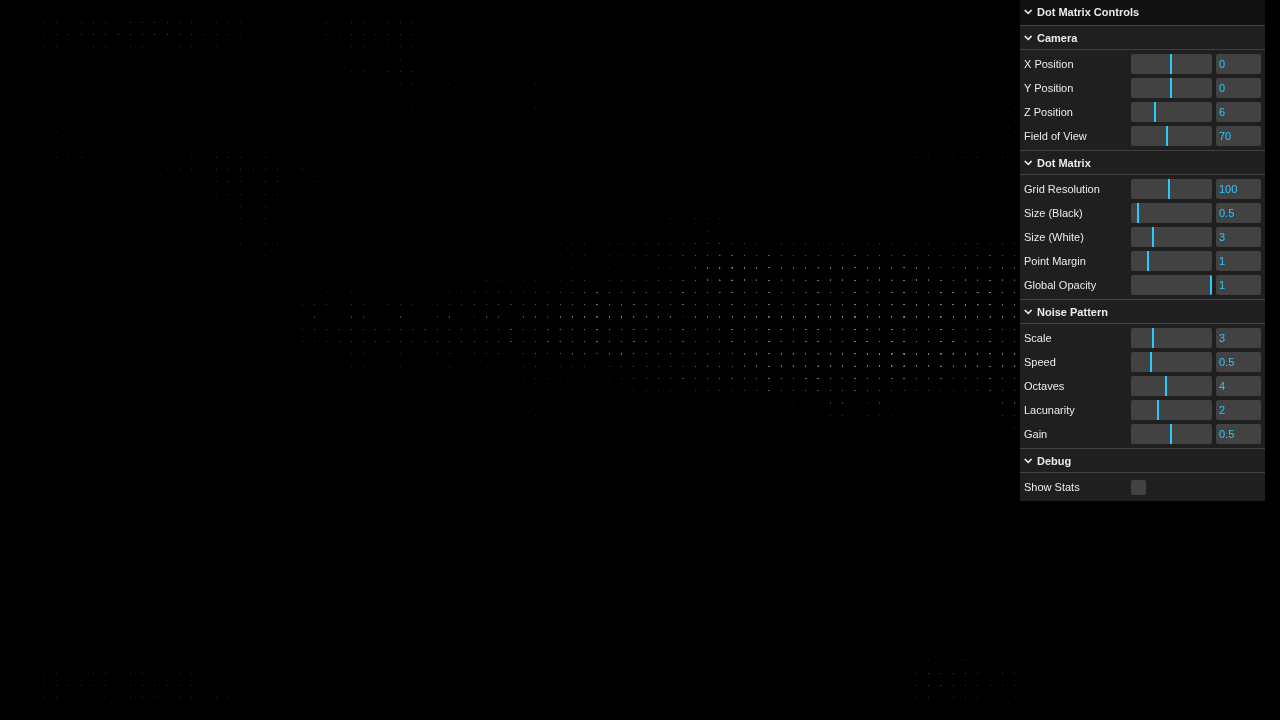
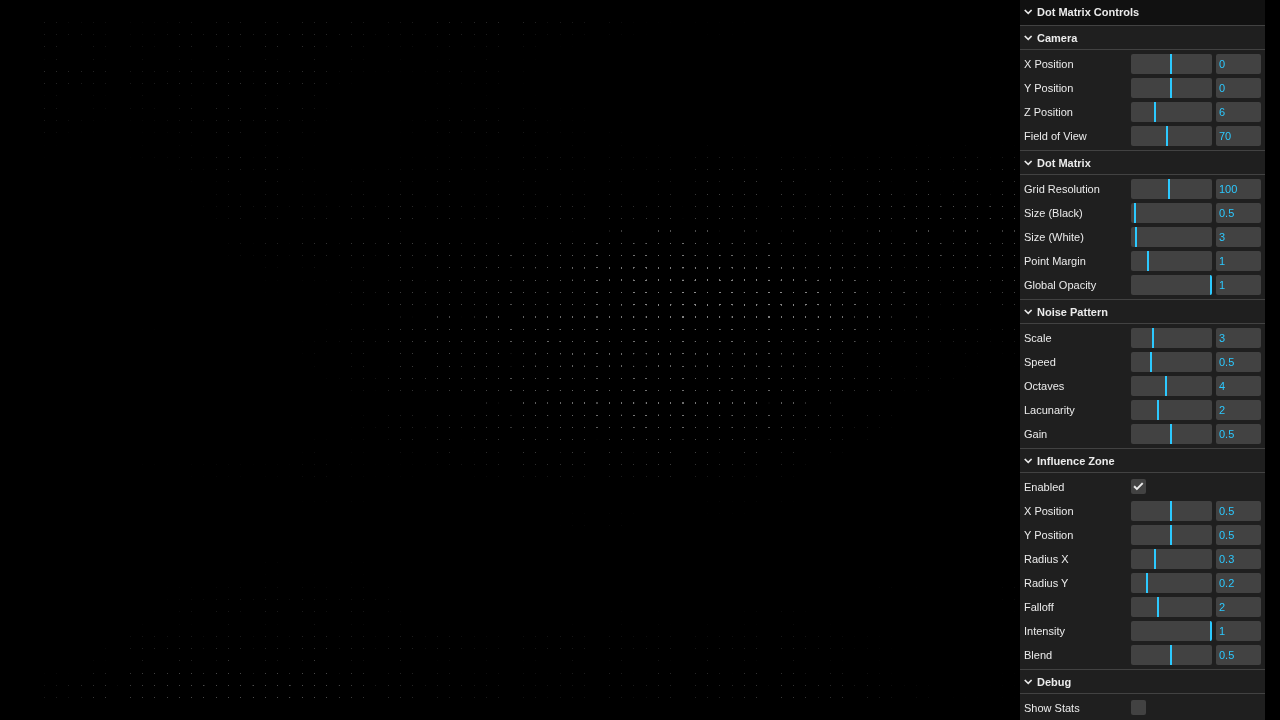
influence zone added

Changed region(s): [[0.7812, 0.6111, 1.0, 1.0]]

diff --git a/dotmatrix.js b/dotmatrix.js
@@ -27,6 +27,16 @@ const params = {
   noiseLacunarity: 2.0, // Frequency multiplier per octave
   noiseGain: 0.5,      // Amplitude multiplier per octave
   
+  // Influence zone controls
+  influenceEnabled: true,
+  influenceX: 0.5,     // X position (0-1, normalized)
+  influenceY: 0.5,     // Y position (0-1, normalized)
+  influenceRadiusX: 0.3, // Ellipse radius X (0-1, normalized)
+  influenceRadiusY: 0.2, // Ellipse radius Y (0-1, normalized)
+  influenceFalloff: 2.0, // Falloff power (1=linear, 2=quadratic, etc)
+  influenceIntensity: 1.0, // Intensity/value of influence (0=black, 1=white)
+  influenceBlend: 0.5,  // Blend factor with noise (0=only noise, 1=only influence)
+  
   // Debug
   showStats: false
 };
@@ -97,51 +107,77 @@ camera = new THREE.PerspectiveCamera(params.cameraFOV, window.innerWidth / windo
 camera.position.set(params.cameraOffsetX, params.cameraOffsetY, params.cameraOffsetZ);
 camera.lookAt(0, 0, 0);
 
-// Simple 2D noise function
-function noise2D(x, y) {
+// Simple 3D noise function for Z-axis movement
+function noise3D(x, y, z) {
   // Simple pseudo-random based on sin
-  return (Math.sin(x * 12.9898 + y * 78.233) * 43758.5453) % 1.0;
+  return (Math.sin(x * 12.9898 + y * 78.233 + z * 43.532) * 43758.5453) % 1.0;
 }
 
-// Smooth noise interpolation
-function smoothNoise2D(x, y) {
+// Smooth noise interpolation in 3D
+function smoothNoise3D(x, y, z) {
   const intX = Math.floor(x);
   const intY = Math.floor(y);
+  const intZ = Math.floor(z);
   const fracX = x - intX;
   const fracY = y - intY;
+  const fracZ = z - intZ;
   
-  // Get corner values
-  const a = noise2D(intX, intY);
-  const b = noise2D(intX + 1, intY);
-  const c = noise2D(intX, intY + 1);
-  const d = noise2D(intX + 1, intY + 1);
+  // Get corner values (8 corners of a cube)
+  const a000 = noise3D(intX, intY, intZ);
+  const a100 = noise3D(intX + 1, intY, intZ);
+  const a010 = noise3D(intX, intY + 1, intZ);
+  const a110 = noise3D(intX + 1, intY + 1, intZ);
+  const a001 = noise3D(intX, intY, intZ + 1);
+  const a101 = noise3D(intX + 1, intY, intZ + 1);
+  const a011 = noise3D(intX, intY + 1, intZ + 1);
+  const a111 = noise3D(intX + 1, intY + 1, intZ + 1);
   
   // Smooth interpolation
   const fx = fracX * fracX * (3 - 2 * fracX);
   const fy = fracY * fracY * (3 - 2 * fracY);
+  const fz = fracZ * fracZ * (3 - 2 * fracZ);
   
-  // Bilinear interpolation
-  const i1 = a * (1 - fx) + b * fx;
-  const i2 = c * (1 - fx) + d * fx;
+  // Trilinear interpolation
+  const i00 = a000 * (1 - fx) + a100 * fx;
+  const i10 = a010 * (1 - fx) + a110 * fx;
+  const i01 = a001 * (1 - fx) + a101 * fx;
+  const i11 = a011 * (1 - fx) + a111 * fx;
   
-  return i1 * (1 - fy) + i2 * fy;
+  const i0 = i00 * (1 - fy) + i10 * fy;
+  const i1 = i01 * (1 - fy) + i11 * fy;
+  
+  return i0 * (1 - fz) + i1 * fz;
 }
 
 // Fractal noise with octaves
-function fractalNoise2D(x, y, octaves, lacunarity, gain) {
+function fractalNoise3D(x, y, z, octaves, lacunarity, gain) {
   let value = 0;
   let amplitude = 1;
   let frequency = 1;
   let maxValue = 0;
   
   for (let i = 0; i < octaves; i++) {
-    value += smoothNoise2D(x * frequency, y * frequency) * amplitude;
+    value += smoothNoise3D(x * frequency, y * frequency, z * frequency) * amplitude;
     maxValue += amplitude;
     amplitude *= gain;
     frequency *= lacunarity;
   }
   
   return value / maxValue;
+}
+
+// Calculate elliptical influence
+function calculateInfluence(x, y, centerX, centerY, radiusX, radiusY, falloff, intensity) {
+  // Calculate normalized distance from center
+  const dx = (x - centerX) / radiusX;
+  const dy = (y - centerY) / radiusY;
+  const distance = Math.sqrt(dx * dx + dy * dy);
+  
+  if (distance >= 1.0) return 0;
+  
+  // Apply falloff
+  const factor = 1.0 - Math.pow(distance, falloff);
+  return factor * intensity;
 }
 
 // Create noise texture data
@@ -174,19 +210,38 @@ function updateNoiseTexture(time) {
     for (let col = 0; col < cols; col++) {
       const index = (row * cols + col) * 4;
       
-      // Generate noise value with time evolution
+      // Generate noise value with Z-axis time evolution (moving towards viewer)
       const x = col * scale;
       const y = row * scale;
-      const z = time * params.noiseSpeed;
+      const z = -time * params.noiseSpeed; // Negative Z for "towards us" movement
       
-      // Use fractal noise
-      const noiseValue = fractalNoise2D(
-        x + z,
-        y + z * 0.7,
+      // Use fractal noise in 3D
+      let noiseValue = fractalNoise3D(
+        x,
+        y,
+        z,
         params.noiseOctaves,
         params.noiseLacunarity,
         params.noiseGain
       );
+      
+      // Apply influence zone if enabled
+      if (params.influenceEnabled) {
+        // Convert grid coordinates to normalized coordinates (0-1)
+        const normX = col / (cols - 1);
+        const normY = row / (rows - 1);
+        
+        const influence = calculateInfluence(
+          normX, normY,
+          params.influenceX, params.influenceY,
+          params.influenceRadiusX, params.influenceRadiusY,
+          params.influenceFalloff,
+          params.influenceIntensity
+        );
+        
+        // Blend noise with influence
+        noiseValue = noiseValue * (1 - params.influenceBlend) + influence * params.influenceBlend;
+      }
       
       // Clamp to 0-1 range
       const value = Math.max(0, Math.min(1, noiseValue));
@@ -426,10 +481,10 @@ function setupGUI() {
   matrixFolder.add(params, 'gridResolution', 10, 200, 1)
     .name('Grid Resolution')
     .onChange(() => createDotMatrix());
-  matrixFolder.add(params, 'sizeBlack', 0.1, 5, 0.1)
+  matrixFolder.add(params, 'sizeBlack', 0.1, 10, 0.1)
     .name('Size (Black)')
     .onChange(() => updatePointsFromNoise());
-  matrixFolder.add(params, 'sizeWhite', 0.5, 10, 0.1)
+  matrixFolder.add(params, 'sizeWhite', 0.5, 50, 0.5)
     .name('Size (White)')
     .onChange(() => updatePointsFromNoise());
   matrixFolder.add(params, 'pointMargin', 0, 5, 0.1)
@@ -456,7 +511,26 @@ function setupGUI() {
     .name('Lacunarity');
   noiseFolder.add(params, 'noiseGain', 0.1, 0.9, 0.01)
     .name('Gain');
-  noiseFolder.open();
+  
+  // Influence Zone folder
+  const influenceFolder = gui.addFolder('Influence Zone');
+  influenceFolder.add(params, 'influenceEnabled')
+    .name('Enabled');
+  influenceFolder.add(params, 'influenceX', 0, 1, 0.01)
+    .name('X Position');
+  influenceFolder.add(params, 'influenceY', 0, 1, 0.01)
+    .name('Y Position');
+  influenceFolder.add(params, 'influenceRadiusX', 0.01, 1, 0.01)
+    .name('Radius X');
+  influenceFolder.add(params, 'influenceRadiusY', 0.01, 1, 0.01)
+    .name('Radius Y');
+  influenceFolder.add(params, 'influenceFalloff', 0.5, 5, 0.1)
+    .name('Falloff');
+  influenceFolder.add(params, 'influenceIntensity', 0, 1, 0.01)
+    .name('Intensity');
+  influenceFolder.add(params, 'influenceBlend', 0, 1, 0.01)
+    .name('Blend');
+  influenceFolder.open();
   
   // Debug folder
   const debugFolder = gui.addFolder('Debug');
@@ -470,7 +544,14 @@ function setupGUI() {
           rows: dotAttributes.rows,
           sizeBlack: params.sizeBlack,
           sizeWhite: params.sizeWhite,
-          gridResolution: params.gridResolution
+          gridResolution: params.gridResolution,
+          influenceZone: {
+            enabled: params.influenceEnabled,
+            position: [params.influenceX, params.influenceY],
+            radius: [params.influenceRadiusX, params.influenceRadiusY],
+            falloff: params.influenceFalloff,
+            intensity: params.influenceIntensity
+          }
         });
       }
     });
@@ -524,4 +605,4 @@ function onResize() {
 
 window.addEventListener('resize', onResize);
 
-console.log('Dot Matrix initialized with noise-driven animation. Press H to toggle GUI.');
+console.log('Dot Matrix initialized with Z-axis noise and influence zone. Press H to toggle GUI.');

diff --git a/test-influence.js b/test-influence.js
@@ -1,0 +1,85 @@
+const puppeteer = require('puppeteer');
+
+(async () => {
+    const browser = await puppeteer.launch({
+        executablePath: '/usr/bin/chromium',
+        headless: true,
+        args: ['--no-sandbox', '--disable-setuid-sandbox']
+    });
+    
+    const page = await browser.newPage();
+    await page.setViewport({ width: 1280, height: 720 });
+    
+    await page.goto('http://localhost:8080/dotmatrix.html');
+    await new Promise(resolve => setTimeout(resolve, 1000));
+    
+    // Test influence zone
+    const influenceTest = await page.evaluate(() => {
+        if (window.params) {
+            // Set up a clear influence zone in the center
+            window.params.influenceEnabled = true;
+            window.params.influenceX = 0.5;
+            window.params.influenceY = 0.5;
+            window.params.influenceRadiusX = 0.2;
+            window.params.influenceRadiusY = 0.15;
+            window.params.influenceFalloff = 2.0;
+            window.params.influenceIntensity = 1.0;
+            window.params.influenceBlend = 0.8; // Strong influence
+            
+            return {
+                enabled: window.params.influenceEnabled,
+                position: [window.params.influenceX, window.params.influenceY],
+                radius: [window.params.influenceRadiusX, window.params.influenceRadiusY],
+                falloff: window.params.influenceFalloff,
+                intensity: window.params.influenceIntensity,
+                blend: window.params.influenceBlend,
+                maxSize: window.params.sizeWhite
+            };
+        }
+        return null;
+    });
+    
+    console.log('=== INFLUENCE ZONE TEST ===');
+    console.log(JSON.stringify(influenceTest, null, 2));
+    
+    await new Promise(resolve => setTimeout(resolve, 500));
+    await page.screenshot({ path: 'influence-center.png' });
+    console.log('\nCenter influence saved as influence-center.png');
+    
+    // Move influence to corner
+    await page.evaluate(() => {
+        window.params.influenceX = 0.8;
+        window.params.influenceY = 0.2;
+        window.params.influenceRadiusX = 0.15;
+        window.params.influenceRadiusY = 0.3;
+        window.params.influenceBlend = 1.0; // Only influence, no noise
+    });
+    
+    await new Promise(resolve => setTimeout(resolve, 500));
+    await page.screenshot({ path: 'influence-corner.png' });
+    console.log('Corner influence saved as influence-corner.png');
+    
+    // Test with larger size
+    await page.evaluate(() => {
+        window.params.sizeWhite = 20; // Increase max size
+        window.params.influenceX = 0.5;
+        window.params.influenceY = 0.5;
+        window.params.influenceRadiusX = 0.4;
+        window.params.influenceRadiusY = 0.2;
+        window.params.influenceFalloff = 1.5;
+    });
+    
+    await new Promise(resolve => setTimeout(resolve, 500));
+    await page.screenshot({ path: 'influence-large.png' });
+    console.log('Large size influence saved as influence-large.png');
+    
+    await browser.close();
+    
+    console.log('\n✅ Influence zone features working:');
+    console.log('   - Elliptical influence zone with customizable position');
+    console.log('   - Adjustable radius X and Y for elliptical shape');
+    console.log('   - Falloff control for smooth transitions');
+    console.log('   - Intensity control for influence strength');
+    console.log('   - Blend factor to mix with noise');
+    console.log('   - Max size increased to 50');
+})();
